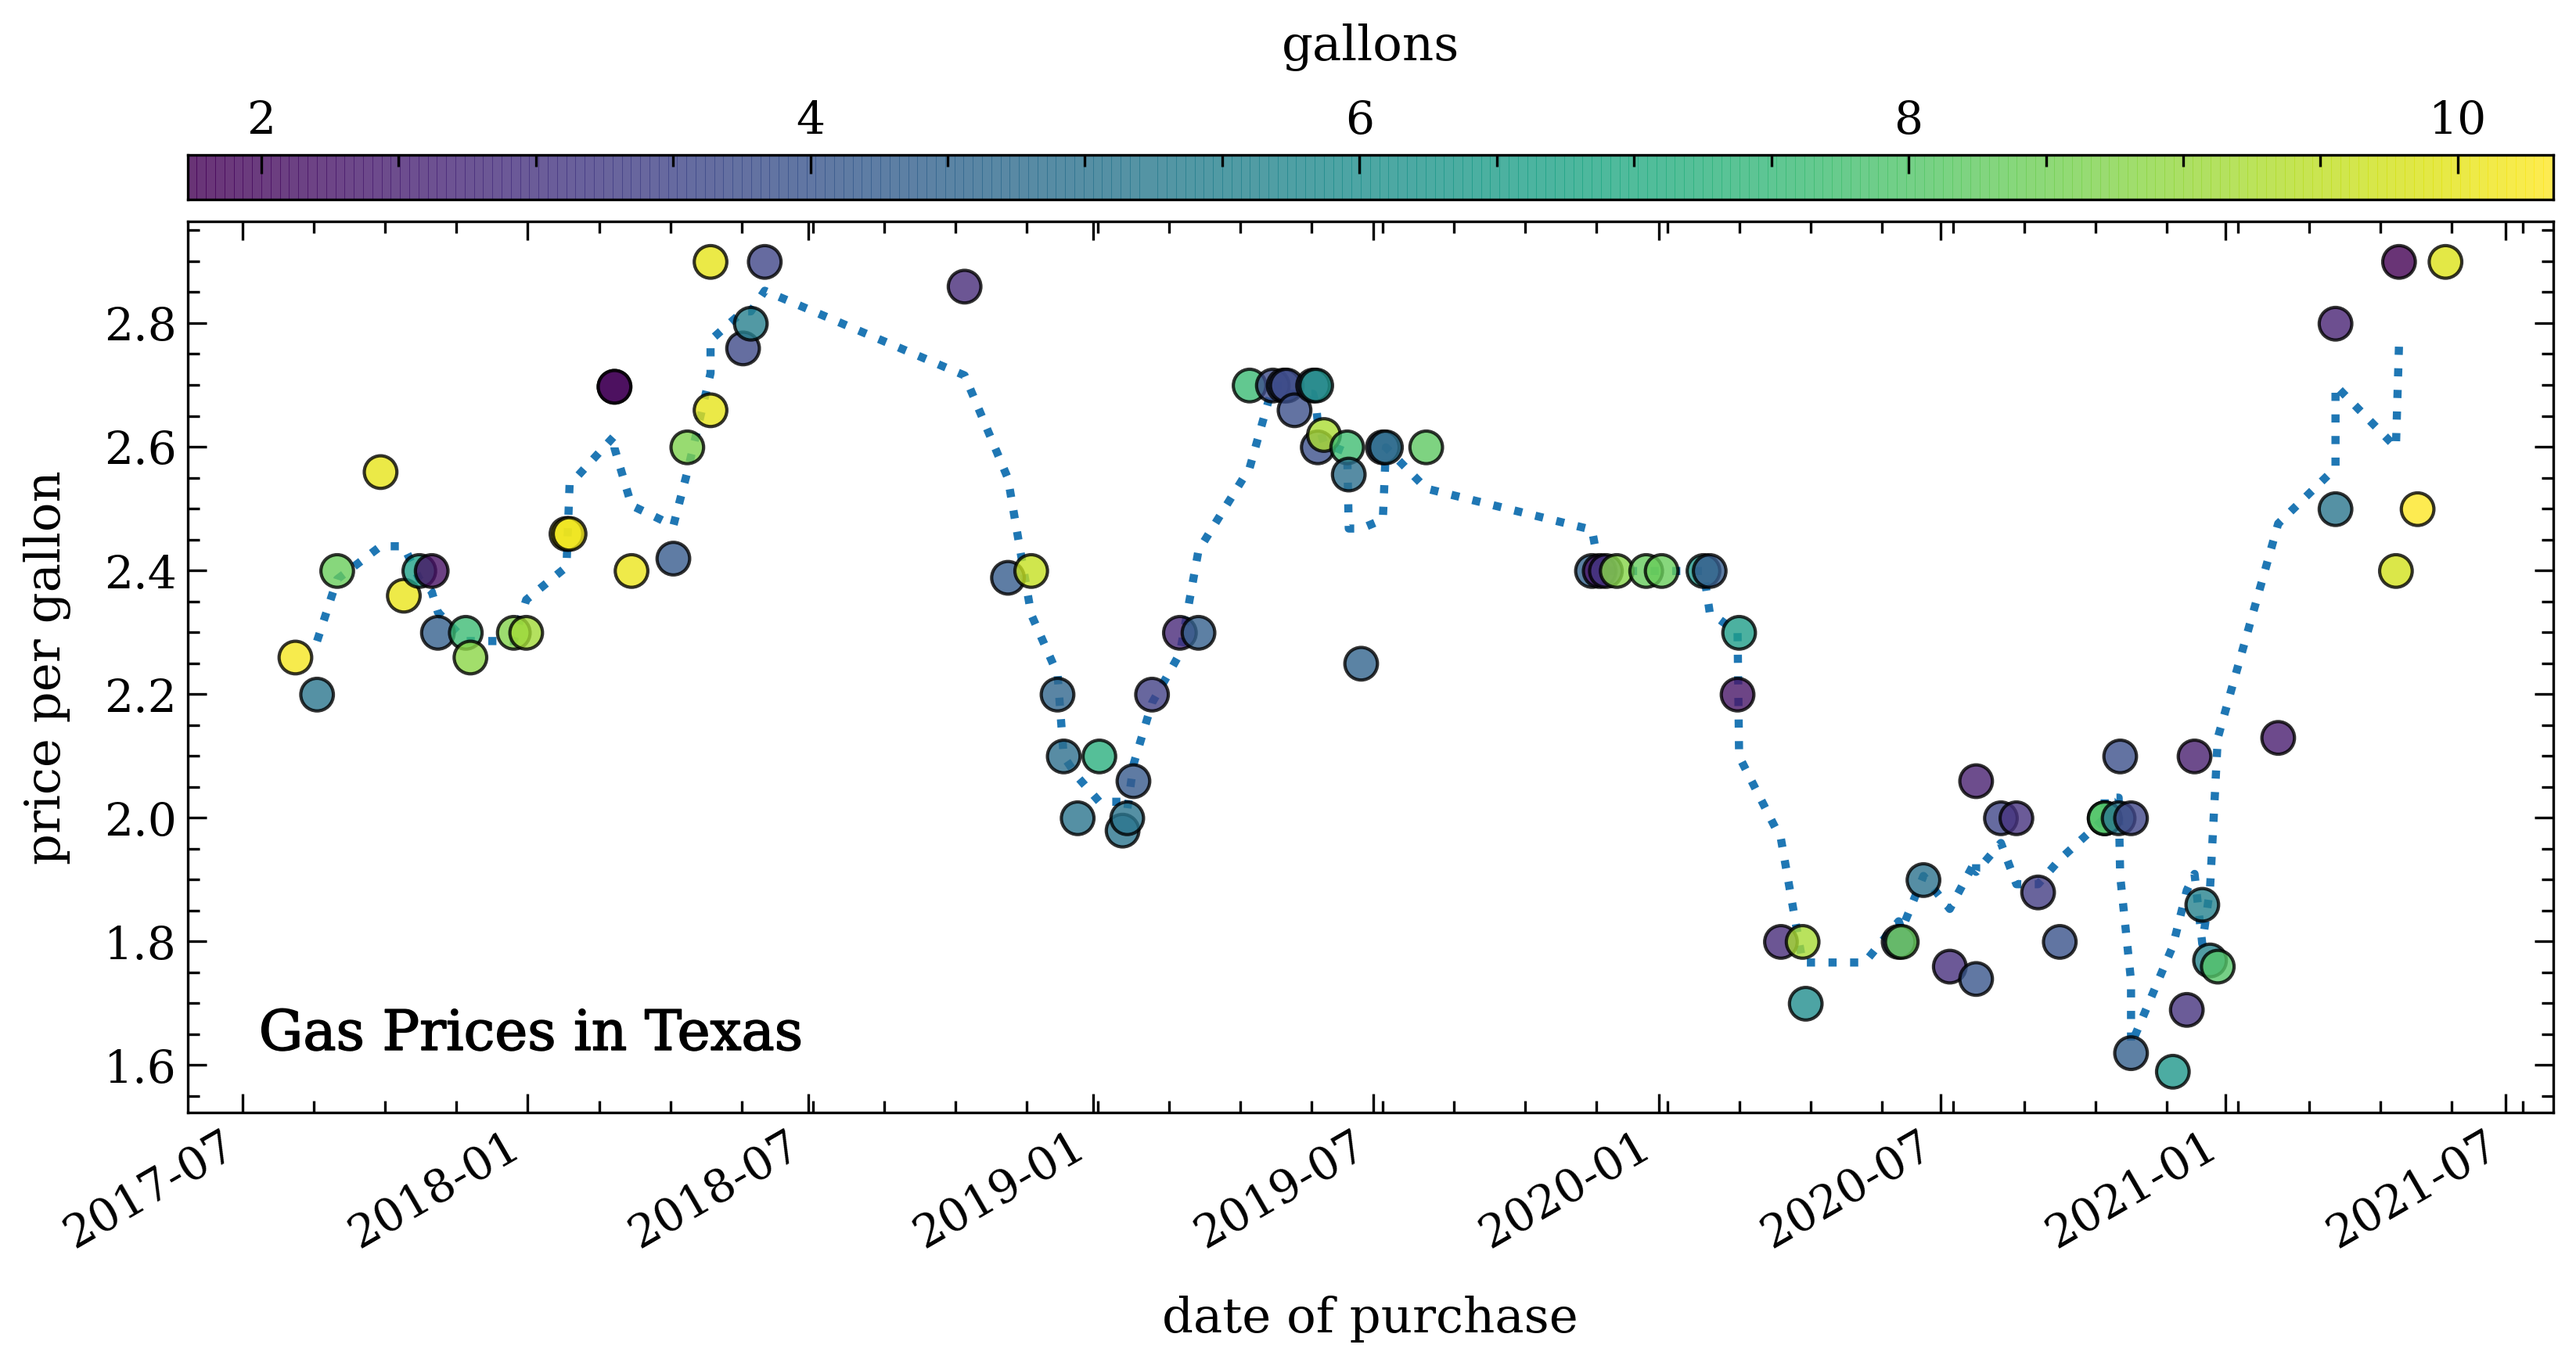
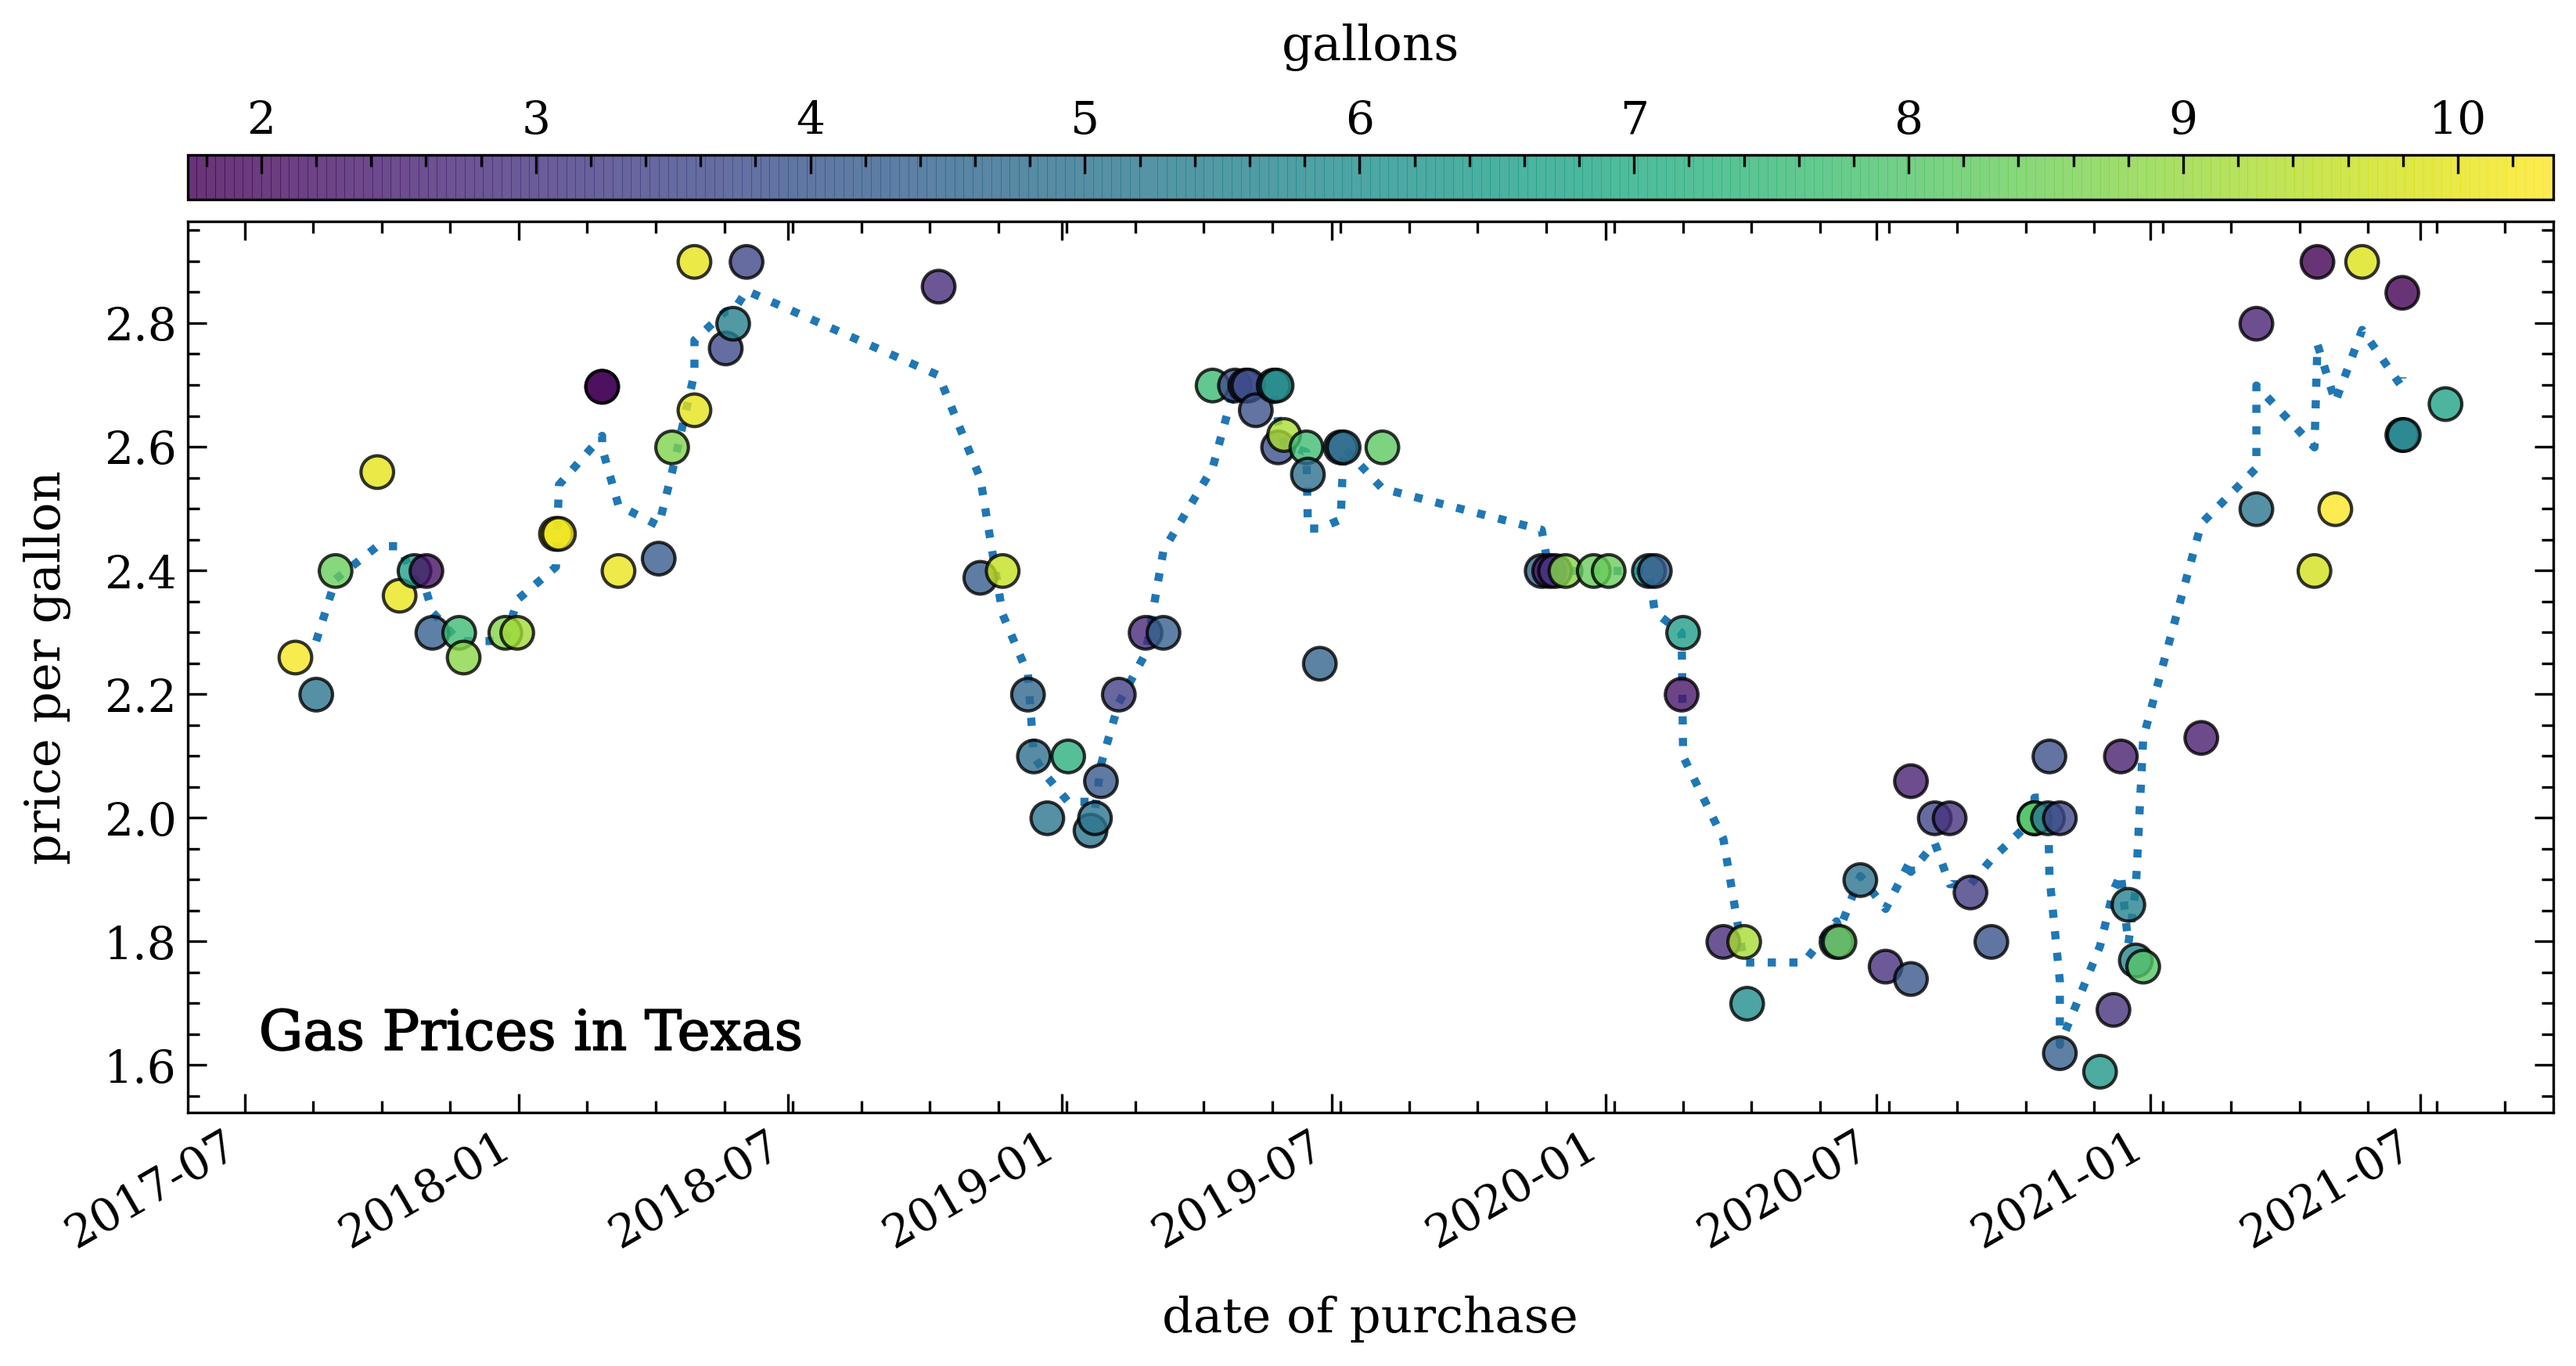
adding receipts

diff --git a/seegas.py b/seegas.py
@@ -16,7 +16,7 @@ import numpy as np
 import matplotlib.pyplot as plt
 import pandas as pd
 from mpl_toolkits.axes_grid1.axes_divider import make_axes_locatable
-from mpl_toolkits.axes_grid1.colorbar import colorbar
+#import matplotlib.colorbar as colorbar
 import matplotlib.patheffects as PathEffects
 
 __author__ = 'Taylor Hutchison'
@@ -55,7 +55,7 @@ plt.gca().tick_params(labelsize=14)
 ax = plt.gca()
 ax_divider = make_axes_locatable(ax)
 cax2 = ax_divider.append_axes('top',pad='2.5%',size='5%')
-cbar = colorbar(im,cax=cax2,orientation="horizontal")
+cbar = plt.colorbar(im,cax=cax2,orientation="horizontal")
 cbar.ax.set_xlabel('gallons',labelpad=-54,fontsize=15)
 cax2.xaxis.set_ticks_position('top')    
 cbar.ax.tick_params(labelsize=14)
